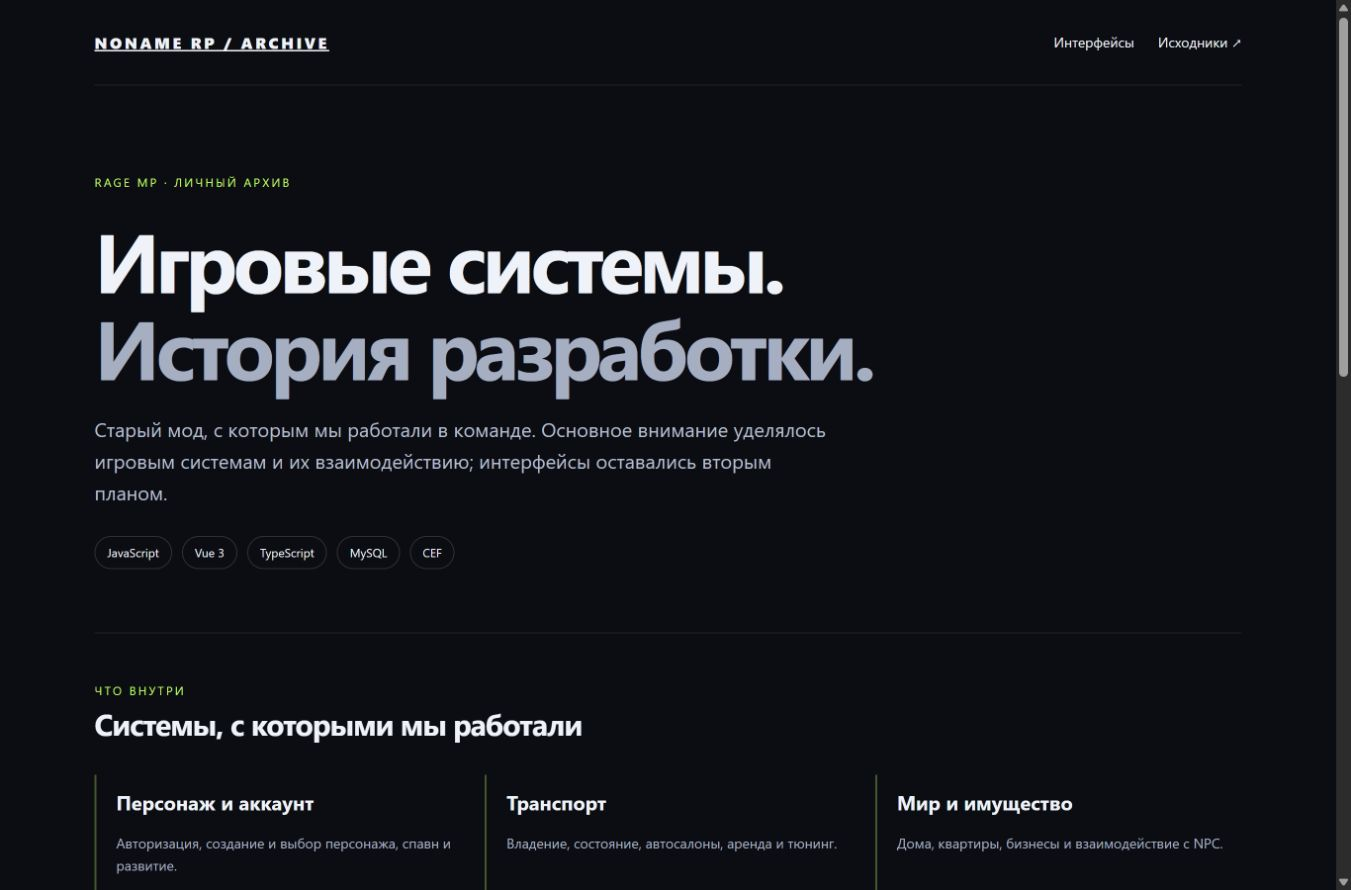
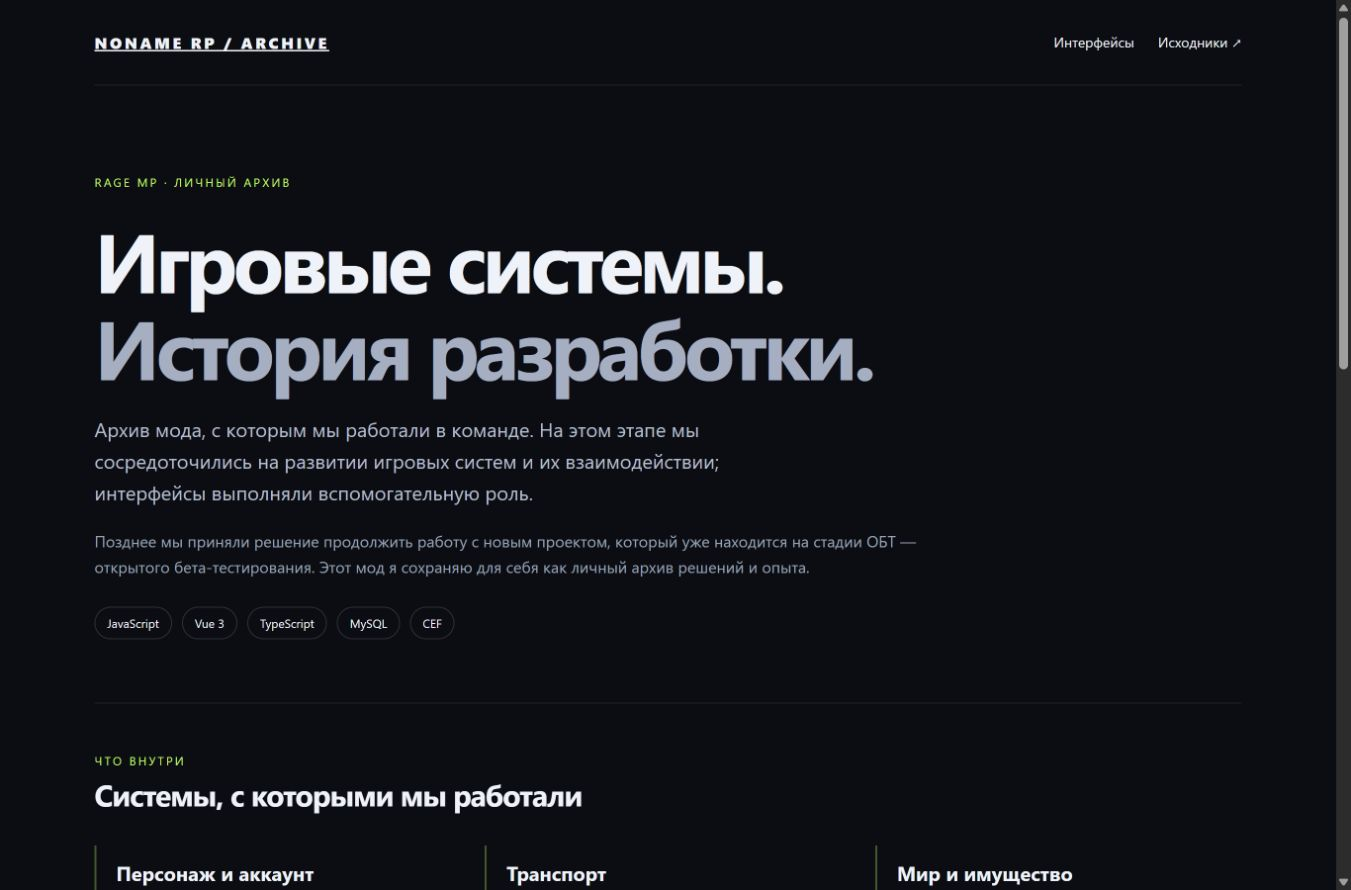
Clarify the archive context and open beta transition in Russian

diff --git a/docs/index.html b/docs/index.html
@@ -1,11 +1,11 @@
 <!doctype html>
-<html lang="ru"><head><meta charset="utf-8"><meta name="viewport" content="width=device-width,initial-scale=1"><title>NoName RP — личный архив старого мода</title><meta name="description" content="Личный архив старого мода RAGE MP. Основной фокус — игровые системы; интерфейсы были вторым планом. Сохранён после перехода команды к новому проекту на OBT."><style>
+<html lang="ru"><head><meta charset="utf-8"><meta name="viewport" content="width=device-width,initial-scale=1"><title>NoName RP — личный архив разработки</title><meta name="description" content="Личный архив мода RAGE MP. Основной фокус — развитие игровых систем; интерфейсы выполняли вспомогательную роль. Сохранён после перехода команды к новому проекту на ОБТ."><style>
 *{box-sizing:border-box}html{color-scheme:dark;scroll-behavior:smooth}body{margin:0;background:#0b0d12;color:#eff2f8;font:16px/1.6 system-ui,-apple-system,Segoe UI,sans-serif}a{color:inherit}main,header,footer{width:min(1160px,calc(100% - 48px));margin:auto}header{display:flex;align-items:center;justify-content:space-between;padding:30px 0;border-bottom:1px solid #ffffff18}.brand{font-weight:800;letter-spacing:.16em}.muted{color:#9aa3b6}nav{display:flex;gap:24px}nav a{text-decoration:none;font-size:14px}.hero{padding:88px 0 64px;max-width:850px}.eyebrow{font-size:12px;color:#c0fa68;letter-spacing:.18em;text-transform:uppercase}h1{font-size:clamp(44px,7vw,84px);letter-spacing:-.05em;line-height:1.05;margin:24px 0}h1 span{color:#a6afc1}h2{font-size:30px;letter-spacing:-.03em;margin:0 0 16px}h3{font-size:20px;margin:12px 0 6px}.lead{font-size:20px;max-width:740px;color:#b5bdcd}.tags{display:flex;gap:10px;flex-wrap:wrap;margin-top:28px}.tag{font-size:12px;border:1px solid #ffffff25;padding:6px 12px;border-radius:100px}.section{padding:48px 0;border-top:1px solid #ffffff18}.grid{display:grid;grid-template-columns:repeat(4,minmax(0,1fr));gap:16px;margin-top:28px}.card{display:flex;flex-direction:column;background:#141821;border:1px solid #ffffff12;border-radius:16px;padding:24px;text-decoration:none;transition:border-color .2s,transform .2s}.card:hover{border-color:#c0fa68;transform:translateY(-3px)}.card p{font-size:14px;color:#a6afc1;margin:0 0 20px}.number{font:12px monospace;color:#7e899e}.open{font-size:12px;color:#c0fa68;margin-top:auto}.systems{display:grid;grid-template-columns:repeat(3,1fr);gap:24px;margin-top:28px}.system{border-left:2px solid #c0fa6850;padding-left:20px}.system p{color:#a6afc1;font-size:14px}.notice{padding:24px;border-radius:14px;background:#191c25;color:#adb6c7}footer{padding:36px 0 48px;font-size:14px;color:#9aa3b6;border-top:1px solid #ffffff18}footer a{color:#c0fa68}@media(max-width:900px){.grid{grid-template-columns:repeat(2,1fr)}.systems{grid-template-columns:repeat(2,1fr)}}@media(max-width:550px){header{gap:16px;align-items:flex-start;flex-direction:column}.hero{padding:56px 0 40px}.grid,.systems{grid-template-columns:1fr}main,header,footer{width:calc(100% - 32px)}}@media(prefers-reduced-motion:reduce){*{scroll-behavior:auto;transition:none!important}}
-</style></head><body><header><a class="brand" href="./">NONAME RP / ARCHIVE</a><nav><a href="#interfaces">Интерфейсы</a><a href="https://github.com/xtrasupra/noname-rp-archive">Исходники ↗</a></nav></header><main><section class="hero"><div class="eyebrow">RAGE MP · Личный архив</div><h1>Игровые системы.<br><span>История разработки.</span></h1><p class="lead">Старый мод, с которым мы работали в команде. Основное внимание уделялось игровым системам и их взаимодействию; интерфейсы оставались вторым планом.</p><div class="tags"><span class="tag">JavaScript</span><span class="tag">Vue 3</span><span class="tag">TypeScript</span><span class="tag">MySQL</span><span class="tag">CEF</span></div></section><section class="section"><div class="eyebrow">Что внутри</div><h2>Системы, с которыми мы работали</h2><div class="systems"><article class="system"><h3>Персонаж и аккаунт</h3><p>Авторизация, создание и выбор персонажа, спавн и развитие.</p></article><article class="system"><h3>Транспорт</h3><p>Владение, состояние, автосалоны, аренда и тюнинг.</p></article><article class="system"><h3>Мир и имущество</h3><p>Дома, квартиры, бизнесы и взаимодействие с NPC.</p></article><article class="system"><h3>Активности</h3><p>Работы, квесты, рыбалка, охота и связанные интерфейсы.</p></article><article class="system"><h3>Сообщество</h3><p>Фракции, документы, администрация, чат и голосовая связь.</p></article><article class="system"><h3>Архитектура</h3><p>Серверные модули, клиентские обработчики, CEF и схема MySQL.</p></article></div></section><section class="section" id="interfaces"><div class="eyebrow">Вспомогательные экраны</div><h2>Интерфейсы для знакомства с системами</h2><p class="muted">Рабочие экраны с тестовыми данными. Их визуальную доработку планировали позже; основная работа шла над системами. Игровые действия требуют среды RAGE MP.</p><div class="grid"><a class="card" href="demo/index.html?v=noname-archive&page=auth"><span class="number">01</span><h3>Авторизация</h3><p>Вход, регистрация и восстановление доступа.</p><span class="open">Открыть экран ↗</span></a>
+</style></head><body><header><a class="brand" href="./">NONAME RP / ARCHIVE</a><nav><a href="#interfaces">Интерфейсы</a><a href="https://github.com/xtrasupra/noname-rp-archive">Исходники ↗</a></nav></header><main><section class="hero"><div class="eyebrow">RAGE MP · Личный архив</div><h1>Игровые системы.<br><span>История разработки.</span></h1><p class="lead">Архив мода, с которым мы работали в команде. На этом этапе мы сосредоточились на развитии игровых систем и их взаимодействии; интерфейсы выполняли вспомогательную роль.</p><p class="muted">Позднее мы приняли решение продолжить работу с новым проектом, который уже находится на стадии ОБТ — открытого бета-тестирования. Этот мод я сохраняю для себя как личный архив решений и опыта.</p><div class="tags"><span class="tag">JavaScript</span><span class="tag">Vue 3</span><span class="tag">TypeScript</span><span class="tag">MySQL</span><span class="tag">CEF</span></div></section><section class="section"><div class="eyebrow">Что внутри</div><h2>Системы, с которыми мы работали</h2><div class="systems"><article class="system"><h3>Персонаж и аккаунт</h3><p>Авторизация, создание и выбор персонажа, спавн и развитие.</p></article><article class="system"><h3>Транспорт</h3><p>Владение, состояние, автосалоны, аренда и тюнинг.</p></article><article class="system"><h3>Мир и имущество</h3><p>Дома, квартиры, бизнесы и взаимодействие с NPC.</p></article><article class="system"><h3>Активности</h3><p>Работы, квесты, рыбалка, охота и связанные интерфейсы.</p></article><article class="system"><h3>Сообщество</h3><p>Фракции, документы, администрация, чат и голосовая связь.</p></article><article class="system"><h3>Архитектура</h3><p>Серверные модули, клиентские обработчики, CEF и схема MySQL.</p></article></div></section><section class="section" id="interfaces"><div class="eyebrow">Вспомогательные экраны</div><h2>Интерфейсы для знакомства с системами</h2><p class="muted">Рабочие экраны с тестовыми данными. Их визуальную доработку планировали после развития основных игровых систем. Игровые действия требуют среды RAGE MP.</p><div class="grid"><a class="card" href="demo/index.html?v=noname-archive&page=auth"><span class="number">01</span><h3>Авторизация</h3><p>Вход, регистрация и восстановление доступа.</p><span class="open">Открыть экран ↗</span></a>
 <a class="card" href="demo/index.html?v=noname-archive&page=rent-car"><span class="number">02</span><h3>Аренда транспорта</h3><p>Каталог и параметры аренды.</p><span class="open">Открыть экран ↗</span></a>
 <a class="card" href="demo/index.html?v=noname-archive&page=characterSelection"><span class="number">03</span><h3>Персонажи</h3><p>Выбор сохранённого персонажа.</p><span class="open">Открыть экран ↗</span></a>
 <a class="card" href="demo/index.html?v=noname-archive&page=selectSpawn"><span class="number">04</span><h3>Выбор спавна</h3><p>Начальная точка появления.</p><span class="open">Открыть экран ↗</span></a>
 <a class="card" href="demo/index.html?v=noname-archive&page=hud"><span class="number">05</span><h3>Игровой HUD</h3><p>Состояние игрока и транспорта.</p><span class="open">Открыть экран ↗</span></a>
 <a class="card" href="demo/index.html?v=noname-archive&page=tablet"><span class="number">06</span><h3>Планшет</h3><p>Интерфейс игровых сервисов.</p><span class="open">Открыть экран ↗</span></a>
 <a class="card" href="demo/index.html?v=noname-archive&page=ls-customs"><span class="number">07</span><h3>Тюнинг</h3><p>Внешний вид и параметры автомобиля.</p><span class="open">Открыть экран ↗</span></a>
-<a class="card" href="demo/index.html?v=noname-archive&page=government-computer"><span class="number">08</span><h3>Гос. компьютер</h3><p>Интерфейс государственных служб.</p><span class="open">Открыть экран ↗</span></a></div></section><section class="section"><div class="notice">Мы приняли решение продолжить работу с новым проектом, который уже находится на стадии OBT. Этот старый мод я сохраняю для себя как личный архив решений и опыта. NoName RP — его нейтральное архивное название.<br><br> В публичной версии сохранены исходники и структура данных; локальные настройки, записи баз, зависимости и серверные бинарные файлы исключены. Полный состав и контекст участия описаны в <a href="https://github.com/xtrasupra/noname-rp-archive#readme">README</a>.</div></section></main><footer>Личный архив старого мода. Участник команды — <a href="https://github.com/xtrasupra">Бехтеев Д. Н. / xtrasupra</a>. RAGE MP и сторонние материалы принадлежат соответствующим правообладателям.</footer></body></html>
+<a class="card" href="demo/index.html?v=noname-archive&page=government-computer"><span class="number">08</span><h3>Гос. компьютер</h3><p>Интерфейс государственных служб.</p><span class="open">Открыть экран ↗</span></a></div></section><section class="section"><div class="notice">NoName RP — нейтральное название личного архива. Здесь сохранено рабочее состояние мода на момент перехода к новому проекту.<br><br> В публичной версии сохранены исходники и структура данных; локальные настройки, записи баз, зависимости и серверные бинарные файлы исключены. Полный состав и контекст участия описаны в <a href="https://github.com/xtrasupra/noname-rp-archive#readme">README</a>.</div></section></main><footer>Личный архив разработки. Участник команды — <a href="https://github.com/xtrasupra">Бехтеев Д. Н. / xtrasupra</a>. RAGE MP и сторонние материалы принадлежат соответствующим правообладателям.</footer></body></html>

diff --git a/PUBLICATION_NOTES.md b/PUBLICATION_NOTES.md
@@ -9,4 +9,4 @@
 - Для GitHub Pages добавлен отдельный режим сборки `demo`. Обычная CEF-сборка сохраняет собственный выходной каталог.
 - Наличие интерфейса в витрине показывает его браузерное представление и тестовые данные; полноценную игровую систему необходимо изучать в исходниках.
 
-- Для личного архива выбрано нейтральное название NoName RP. Логотипы прежнего оформления удалены из исходников и опубликованных ресурсов. Основной акцент описания — игровые системы и переход команды к новому проекту на OBT.
+- Для личного архива выбрано нейтральное название NoName RP. Логотипы прежнего оформления удалены из исходников и опубликованных ресурсов. Основной акцент описания — игровые системы и переход команды к новому проекту на ОБТ (открытое бета-тестирование).
